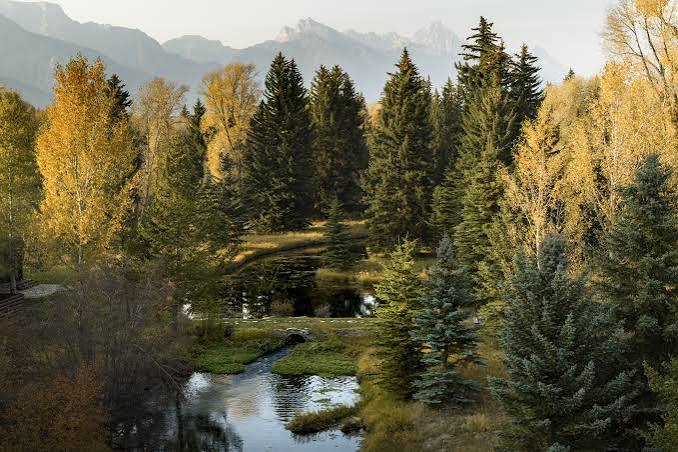
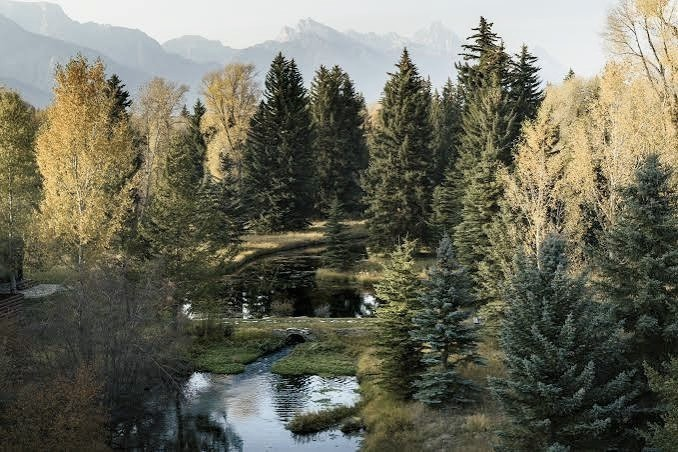
teliko

diff --git a/relax.html b/relax.html
@@ -9,7 +9,7 @@
     <meta charset="UTF-8" />
     <meta charset="utf-8" />
     <meta name="viewport" content="width=device-width, initial-scale=1" />
-    <link rel="stylesheet" href="Νέος φάκελος/relax.css" />
+    <link rel="stylesheet" href="relax.css" />
     <title>Relaxation</title>
   </head>
   <body>
@@ -30,10 +30,6 @@
           <!--Κρύβει το μενού στα κινητά και το ανοίγει μόνο όταν πατήσεις το κουμπί.-->
           <ul class="navbar-nav">
             <li class="nav-item">
-              <a class="nav-link active" href="#">Home</a>
-            </li>
-
-            <li class="nav-item">
               <a class="nav-link" href="info.html">Assistance</a>
             </li>
             <li class="nav-item">
@@ -48,21 +44,25 @@
       </div>
     </nav>
     <div id="relax">
-      <audio controls class="w-100">
-<<<<<<< Updated upstream
+      <audio class="audio1" controls class="w-100">
+        <<<<<<< Updated upstream
         <source src="relax.mp3" type="audio/mpeg" />
-=======
+        =======
         <source src="Audio.mp3" type="audio/mpeg" />
-        lala
->>>>>>> Stashed changes
+        lala >>>>>>> Stashed changes
       </audio>
     </div>
     <div id="relax">
-      <audio controls class="w-100">
+      <audio class="audio2" controls class="w-100">
         <source src="marlowemusic-white-noise-588898.mp3" type="audio/mpeg" />
         lala
       </audio>
     </div>
-    <img src="landscape2.jpg" class="img-fluid" alt="Relaxation Image" />
+    <img
+      id="blabla"
+      src="landscape2.jpg"
+      class="img-fluid"
+      alt="Relaxation Image"
+    />
   </body>
 </html>

diff --git a/index.html b/index.html
@@ -3,7 +3,8 @@
   <head>
     <link
       href="https://cdn.jsdelivr.net/npm/bootstrap@5.3.8/dist/css/bootstrap.min.css"
-      rel="stylesheet" />
+      rel="stylesheet"
+    />
     <link rel="stylesheet" href="homepage.css" />
     <meta charset="UTF-8" />
     <meta name="viewport" content="width=device-width, initial-scale=1.0" />
@@ -21,16 +22,14 @@
           class="navbar-toggler"
           type="button"
           data-bs-toggle="collapse"
-          data-bs-target="#navbarNav">
+          data-bs-target="#navbarNav"
+        >
           <span class="navbar-toggler-icon"></span>
         </button>
 
         <div class="collapse navbar-collapse" id="navbarNav">
           <!--Κρύβει το μενού στα κινητά και το ανοίγει μόνο όταν πατήσεις το κουμπί.-->
           <ul class="navbar-nav">
-            <li class="nav-item">
-              <a class="nav-link active" href="#">Home</a>
-            </li>
             <li class="nav-item">
               <a class="nav-link" href="info.html">Assistance</a>
             </li>

diff --git a/info.html b/info.html
@@ -30,9 +30,6 @@
         <div class="collapse navbar-collapse" id="navbarNav">
           <ul class="navbar-nav">
             <li class="nav-item">
-              <a class="nav-link active" href="#">Home</a>
-            </li>
-            <li class="nav-item">
               <a class="nav-link" href="info.html">Assistance</a>
             </li>
             <li class="nav-item">
@@ -46,7 +43,6 @@
         </div>
       </div>
     </nav>
-
 
     <div class="bellow">
       <h1 id="header">Ψηφιακή ισορροπία και πώς να τη ξαναβρείς</h1>

diff --git a/blog.html b/blog.html
@@ -31,10 +31,6 @@
         <div class="collapse navbar-collapse" id="navbarNav">
           <ul class="navbar-nav">
             <li class="nav-item">
-              <a class="nav-link active" href="#">Home</a>
-            </li>
-
-            <li class="nav-item">
               <a class="nav-link" href="info.html">Assistance</a>
             </li>
             <li class="nav-item">

diff --git a/relax.css b/relax.css
@@ -1,12 +1,12 @@
-#relax {
-  place-items: bottom;
-  color: rgb(10, 82, 42);
-}
-
 #relax-image {
   place-items: bottom;
+  min-height: 1000px;
 }
 .img-fluid {
   place-items: middle;
   position: center;
+}
+#blabla {
+  width: 100%;
+  object-fit: cover;
 }
